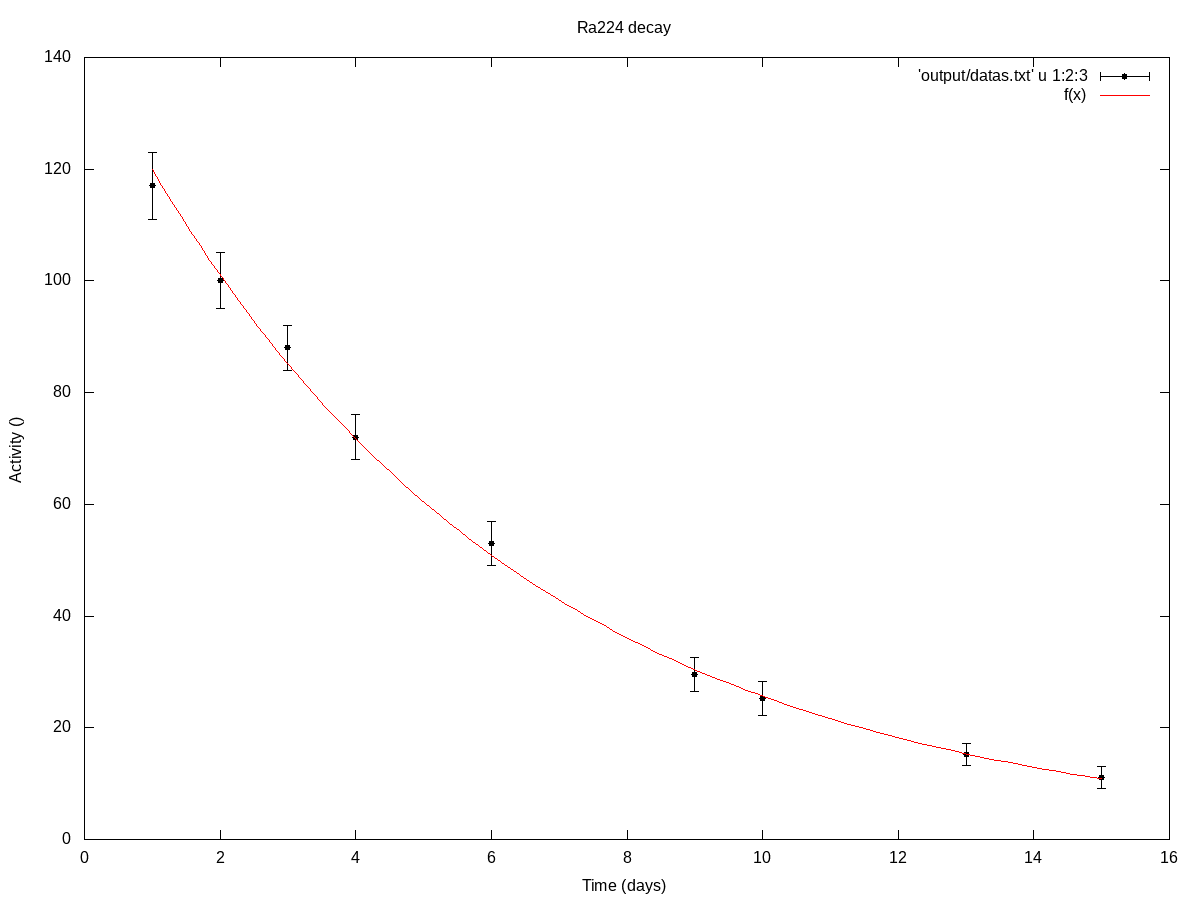
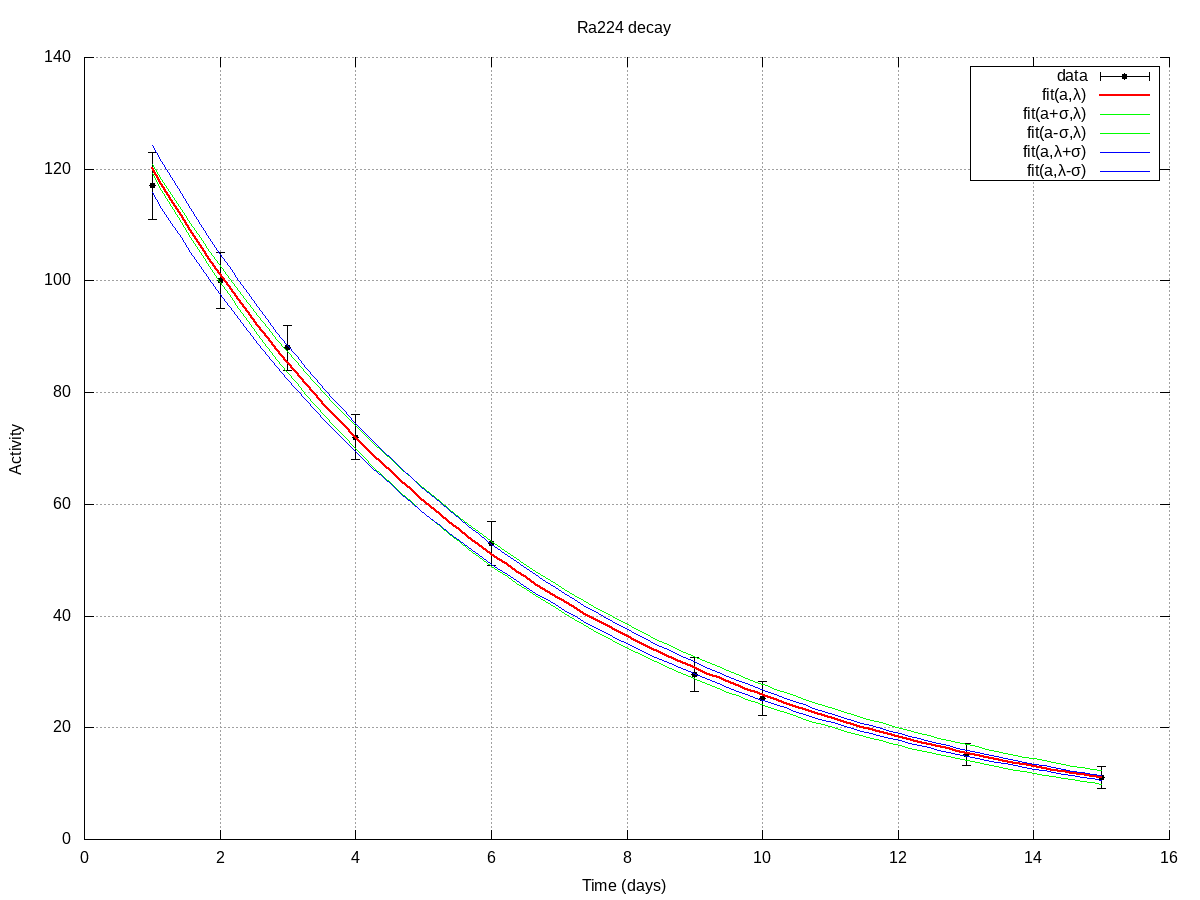
Done with this one now, very nice exercise

diff --git a/LeastSquares/least.cpp b/LeastSquares/least.cpp
@@ -5,7 +5,7 @@
 #include <cmath>        // fancy math functions
 
 #include "src/matrices.cpp"
-
+#include "src/eigen.cpp"
 
 int main(int argc, char *argv[]){  
 
@@ -20,6 +20,22 @@ int main(int argc, char *argv[]){
     for (int i=0; i<times.size(); i++){
         lnactivity[i] = log(activity[i]); 
     }
+    vectorprint(lnactivity);
+
+    std::vector<double> lnsigma; // Similarly making a vector that has the uncertainties of the logarithm
+    lnsigma.resize(times.size());
+    for (int i=0; i<times.size(); i++){
+        lnsigma[i] = sigma[i] / activity[i]; 
+    }
+
+    // Least squares that takes uncertainty in the data into account has Aik = fk(xi)/sigmayi and bi = yi / sigmayi
+
+    // Setting up the b vector
+
+    std::vector<double> b = lnactivity;
+    for (int i=0; i<times.size(); i++){
+        b[i] /= lnsigma[i];
+    }
 
 
     // Setting up the least squares matrix
@@ -29,18 +45,26 @@ int main(int argc, char *argv[]){
     vectorfill(ones, 1.0); 
     M.setcol(0,ones); // The first parameter is constant in x, so just the coefficient times 1.0 
     M.setcol(1,times); // The second parameter is linear in x
+    // To take the uncertainties into account every i'th row in A must be scaled with sigmai
+    for (int i=0; i<times.size(); i++){
+        M.elements[i][0] /= lnsigma[i];
+        M.elements[i][1] /= lnsigma[i];
+    }
+    
     
     //M.print();
     QR decomped = decomp(M);
-    std::vector<double> solution = decomped.solve(lnactivity); // Using the logarithm of the activities
+    std::vector<double> solution = decomped.solve(b); // Using the logarithm of the activities
 
+    // Outputting the data into a file
     std::ofstream datas;
     datas.open("output/datas.txt");
     for (int i=0; i<times.size(); i++){
-        datas << times[i] << ", " << activity[i] << ", " << sigma[i] << std::endl;
+        datas << times[i] << ", " << activity[i] << ", " << sigma[i] << ", " << lnactivity[i] << ", " << lnsigma[i] << std::endl;
     }
     datas.close();
 
+    // Outputting the result of the fit so it can be plotted (is done in the file "gnuplotter" when called by "make plot")
     std::ofstream fitresult;
     fitresult.open("output/fitresult.txt");
     // This is a super hack way of storing the result from the fit in a way that Gnuplot can use easily
@@ -49,6 +73,22 @@ int main(int argc, char *argv[]){
     fitresult.close();
 
 
-
+    // The covariance matrix of A is (A^T A)^-1, so I use the QR decomposition on A^t A to find the inverse of my matrix
+    matrix ATA = matmult(transpose(M), M);
+    QR ATAdecomped = decomp(ATA);
+    matrix covariance = ATAdecomped.inverse();
+    //covariance.print();
+    fitresult.open("output/fitresult.txt", std::ofstream::app);
+    fitresult << "sigma_ln(a) = " << sqrt(covariance.elements[0][0]) <<  std::endl; // This is the uncertainty in the fitting coefficient
+    fitresult << "sigma_a = " << sqrt(covariance.elements[0][0]) * exp(solution[0]) <<  std::endl; // By using error propagation, f(a) = e^a: sigma_a = sqrt([e^a * sigma_f(a)]^2)
+    fitresult << "sigma_(minuslambda) = " << sqrt(covariance.elements[1][1]) <<  std::endl; // 
+    fitresult << "sigma_lambda = " << sqrt(covariance.elements[1][1]) <<  std::endl; // This one is just the f(lambda) = -lambda, so the minus sign goes away when squaring in the error propagation formula
+    fitresult.close();
+    
+    // Calculating the half-life if it is of interest
+    double halflife = -log(2) / solution[1];
+    double sigmahalflife = log(2) / (solution[1] * solution[1]) * sqrt(covariance.elements[1][1]); // From propagation
+    std::cout << "The half-life is " << halflife << " ± " << sigmahalflife << " days" << std::endl;
+    std::cout << "Compared to 3.631(2) days from NIST this is " << fabs(halflife - 3.631) / sigmahalflife << "σ away, so not really indicative of the same value, but honestly not too bad for the time" << std::endl;
     return 0;
 }

diff --git a/LeastSquares/src/eigen.cpp b/LeastSquares/src/eigen.cpp
@@ -1,0 +1,77 @@
+#include <iostream> // For printing
+#include <fstream>      // For writing to files
+#include <ctime> // For generating a starting seed for RNG
+#include <vector> // For basic vectors
+#include <cmath>
+
+
+//#include "matrices.cpp" // My linear algebra classes etc
+
+// Right multiplication by J
+void timesJ(matrix &M, int p, int q, double theta){
+    double cosine = cos(theta);
+    double sine = sin(theta);
+    for (int i=0; i<M.x; i++){
+        double aip = M.elements[i][p];
+        double aiq = M.elements[i][q];
+
+        M.elements[i][p] = cosine * aip - sine * aiq;
+        M.elements[i][q] = sine * aip + cosine * aiq;
+    }
+}
+
+// Left multiplication by J
+void Jtimes(matrix &M, int p, int q, double theta){
+    double cosine = cos(theta);
+    double sine = sin(theta);
+    for (int j=0; j<M.x; j++){
+        double apj = M.elements[p][j];
+        double aqj = M.elements[q][j];
+
+        M.elements[p][j] = cosine * apj + sine * aqj;
+        M.elements[q][j] = -sine * apj + cosine * aqj;
+    }
+}
+
+// Function that cycles through a matrix until it has converged below some threshold
+matrix cycle(matrix &M, std::ostream& output = std::cout){
+    matrix V = identitymatrix(M.x, M.y);
+    if (M.x != M.y){
+        output << "Mega Oof, the dimensions don't match! >:[" << std::endl;
+    }
+    bool changed = false; // Boolean that controls the loop
+    int loopcounter = 0;
+
+    do{ // Loop to do the EVD
+        changed = false;
+
+        //output << "Loop number " << loopcounter << std::endl; 
+        loopcounter++;
+        for (int p=0; p<M.x-1; p++){
+            for (int q=p+1; q<M.x; q++){
+                // Making variables
+                double apq = M.elements[p][q];
+                double app = M.elements[p][p];
+                double aqq = M.elements[q][q];
+                double theta = 0.5 * atan2(2 * apq, aqq-app);
+                double cosine = cos(theta);
+                double sine = sin(theta);
+
+                // New values of the diagonal, to be able to see how much the diagonal changes, so the program can check convergence
+                double napp = cosine * cosine * app - 2 * sine * cosine * apq + sine * sine * aqq;
+                double naqq = sine * sine * app + 2 * sine * cosine * apq + cosine * cosine * aqq;
+
+                //output << p << "," << q << " with " << abs(napp - app) << " and " << abs(naqq - aqq) << "; theta= " << theta << std::endl;
+                if (napp =! app || naqq != aqq){
+                    changed = true;
+                    timesJ(M, p, q, theta);
+                    Jtimes(M, p, q, -theta);
+                    timesJ(V,p,q, theta);
+                    //output << "The Matrix is now:" << std::endl; M.print();
+                }
+            }
+        }
+    }while(changed);//while(changed && loopcounter < 0); //
+
+    return V;
+}

diff --git a/LeastSquares/src/matrices.cpp b/LeastSquares/src/matrices.cpp
@@ -184,7 +184,7 @@ std::vector<double> matvecmult(matrix M, std::vector<double> vec, std::ostream& 
         }
     }
     else{
-        output << "Mega Oof, the dimensions don't match! >:[" << std::endl;
+        output << "Mega Oof, the dimensions for matrix-vector don't match! >:[" << std::endl;
     }
     return result; // Will be empty if dimensions are bad
 }
@@ -204,7 +204,7 @@ matrix matmult(matrix M1, matrix M2, std::ostream& output = std::cout){
         }
     }
     else {
-        output << "Mega Oof, the dimensions don't match! >:[" << std::endl;
+        output << "Mega Oof, the dimensions for the matrix multiplication don't match! >:[" << std::endl;
     }
     
     return result;  

diff --git a/README.md b/README.md
@@ -11,7 +11,7 @@ All the folders are made so that you can just type "make do" in your shell and i
 ---------------------------------------
 | 2  | EVD           | 6 | 3 | 1 | 10  |
 ---------------------------------------
-| 3  | LeastSquares  | 6 | - | - |  -  |
+| 3  | LeastSquares  | 6 | 3 | 1 | 10  |
 ---------------------------------------
 | 4  | Splines       | - | - | - |  -  |
 ---------------------------------------
